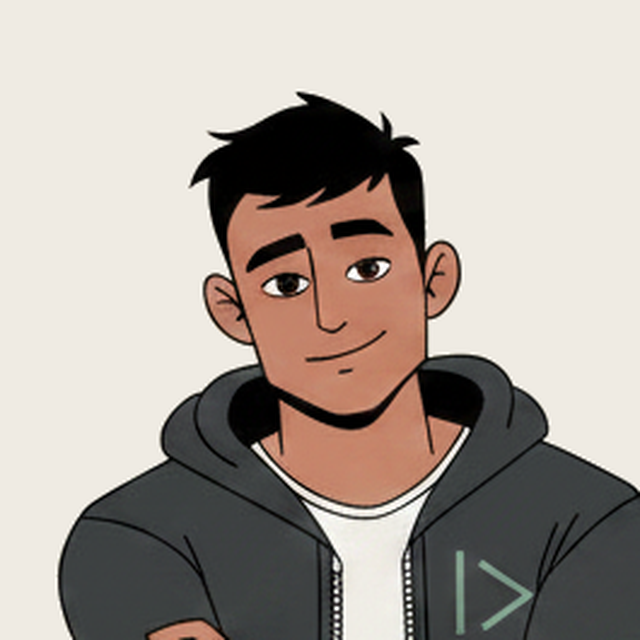
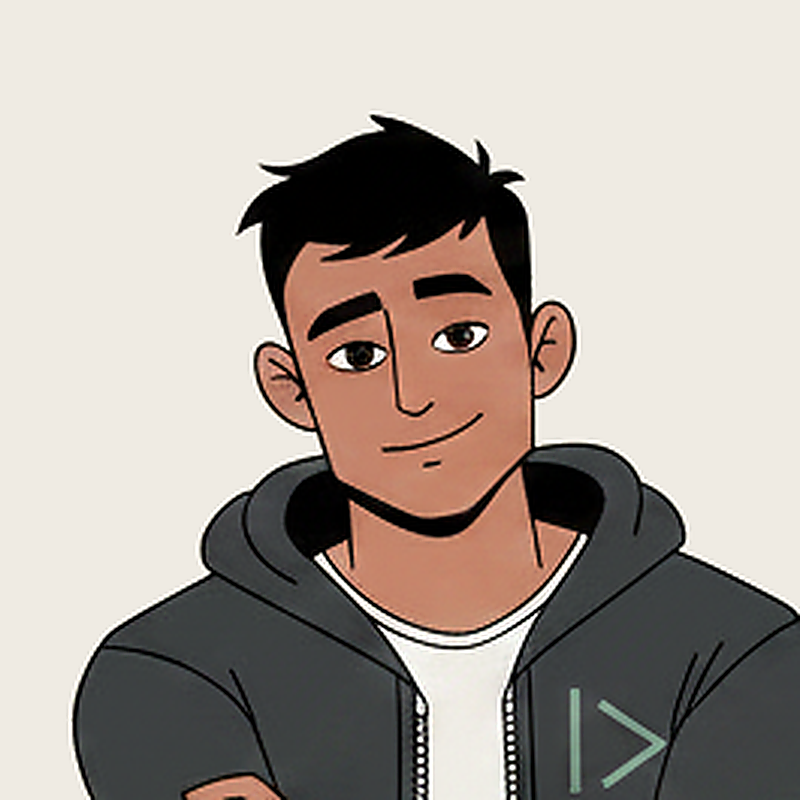
Sharpen profile picture and make it reproducible
The head occupies only about 265px in the source artwork, so the previous
640px crop was a 2.4x upscale and looked soft. Output is now 800x800 with an
unsharp mask restoring the line definition: the art is flat and grain-free, so
sharpening has no noise to amplify, and a small radius keeps haloes off the
contour lines.

800 is the largest size any target platform asks for (YouTube; Instagram 320,
TikTok 200), so no platform upscales it any more -- downsampling always looks
better than the reverse.

Moves the crop out of an ad-hoc command into scripts/profilbild.py so another
pose can be used as the source later, and nudges the frame down slightly so the
circular crop clears the hair.

diff --git a/scripts/profilbild.py b/scripts/profilbild.py
@@ -1,0 +1,49 @@
+"""Profilbild aus einer Maskottchen-Pose schneiden und nachschaerfen.
+
+    python3 scripts/profilbild.py [pose] [ausgabe.png]
+
+Voreinstellung: public/mascot-selbstsicher.png -> public/profilbild.png
+
+Instagram beschneidet Profilbilder kreisrund, deshalb sitzt der Kopf mittig mit
+Rand ringsum -- ein enger Ausschnitt verliert Haar und Kinn.
+
+Ausgegeben wird 800x800, die groesste von einer Zielplattform verlangte Groesse
+(YouTube; Instagram 320, TikTok 200). So rechnet keine Plattform mehr hoch, und
+Herunterrechnen sieht immer besser aus.
+
+Der Kopf misst in der Quellgrafik nur rund 265 Pixel, die Hochrechnung kostet
+also Schaerfe. Die Unsharp-Maske holt sie zurueck: die Grafik ist flaechig und
+rauschfrei, es gibt kein Korn, das mitverstaerkt wuerde. Radius klein halten,
+sonst bekommen die Konturlinien sichtbare Hoefe.
+"""
+import sys
+from PIL import Image, ImageFilter
+
+source = sys.argv[1] if len(sys.argv) > 1 else 'public/mascot-selbstsicher.png'
+out_path = sys.argv[2] if len(sys.argv) > 2 else 'public/profilbild.png'
+SIZE = 800
+BACKGROUND = (239, 235, 227, 255)  # gleicher Cremeton wie die Videos
+
+src = Image.open(source).convert('RGBA')
+w, h = src.size
+
+head_h = int(h * 0.235)
+alpha = src.crop((0, 0, w, head_h)).split()[3]
+
+# Gesichtsmitte ueber die Deckkraft der oberen Haelfte, damit der Kreis
+# symmetrisch sitzt -- die Bildmitte taugt nicht, weil Arme sie verschieben.
+cols = [sum(alpha.getpixel((x, y)) for y in range(0, head_h // 2, 3)) for x in range(w)]
+total = sum(cols) or 1
+centre = sum(x * c for x, c in enumerate(cols)) / total
+
+side = int(head_h * 1.5)
+canvas = Image.new('RGBA', (side, side), BACKGROUND)
+canvas.paste(src, (-int(centre - side / 2), int(head_h * 0.22)), src)
+
+out = canvas.resize((SIZE, SIZE), Image.LANCZOS)
+out = out.filter(ImageFilter.UnsharpMask(radius=1.4, percent=165, threshold=2))
+out.convert('RGB').save(out_path, quality=95)
+
+print(f'{source} {w}x{h}, Gesichtsmitte x={centre:.0f}')
+print(f'Ausschnitt {side}x{side} -> {SIZE}x{SIZE} (Faktor {SIZE / side:.2f})')
+print(f'geschrieben {out_path}')

diff --git a/account/aufbau.md b/account/aufbau.md
@@ -70,8 +70,17 @@ Wiederkehrer, und er zwingt dich zu einem Takt.
 
 ## Profilbild
 
-`public/profilbild.png` — der Kopf des Maskottchens, 640 × 640, mittig für den
+`public/profilbild.png` — der Kopf des Maskottchens, 800 × 800, mittig für den
 Kreisbeschnitt, auf demselben Cremeton wie die Videos.
+
+800 px ist bewusst gewählt: es ist die größte Größe, die eine der Plattformen
+verlangt (YouTube; Instagram 320, TikTok 200). So rechnet keine Plattform mehr
+hoch — und Herunterrechnen sieht immer besser aus.
+
+Der Kopf misst in der Quellgrafik nur rund 265 px, die Hochrechnung kostet also
+Schärfe. Eine Unsharp-Maske holt sie zurück: die Grafik ist flächig und
+rauschfrei, es gibt kein Korn, das mitverstärkt würde. Erzeugt wird das Bild von
+`scripts/profilbild.mjs`, falls du eine andere Pose als Vorlage willst.
 
 Das ist wichtiger als es klingt: wer dein Reel im Feed sieht und dann dein
 Profil öffnet, muss innerhalb einer Sekunde erkennen, dass es dieselbe Quelle
